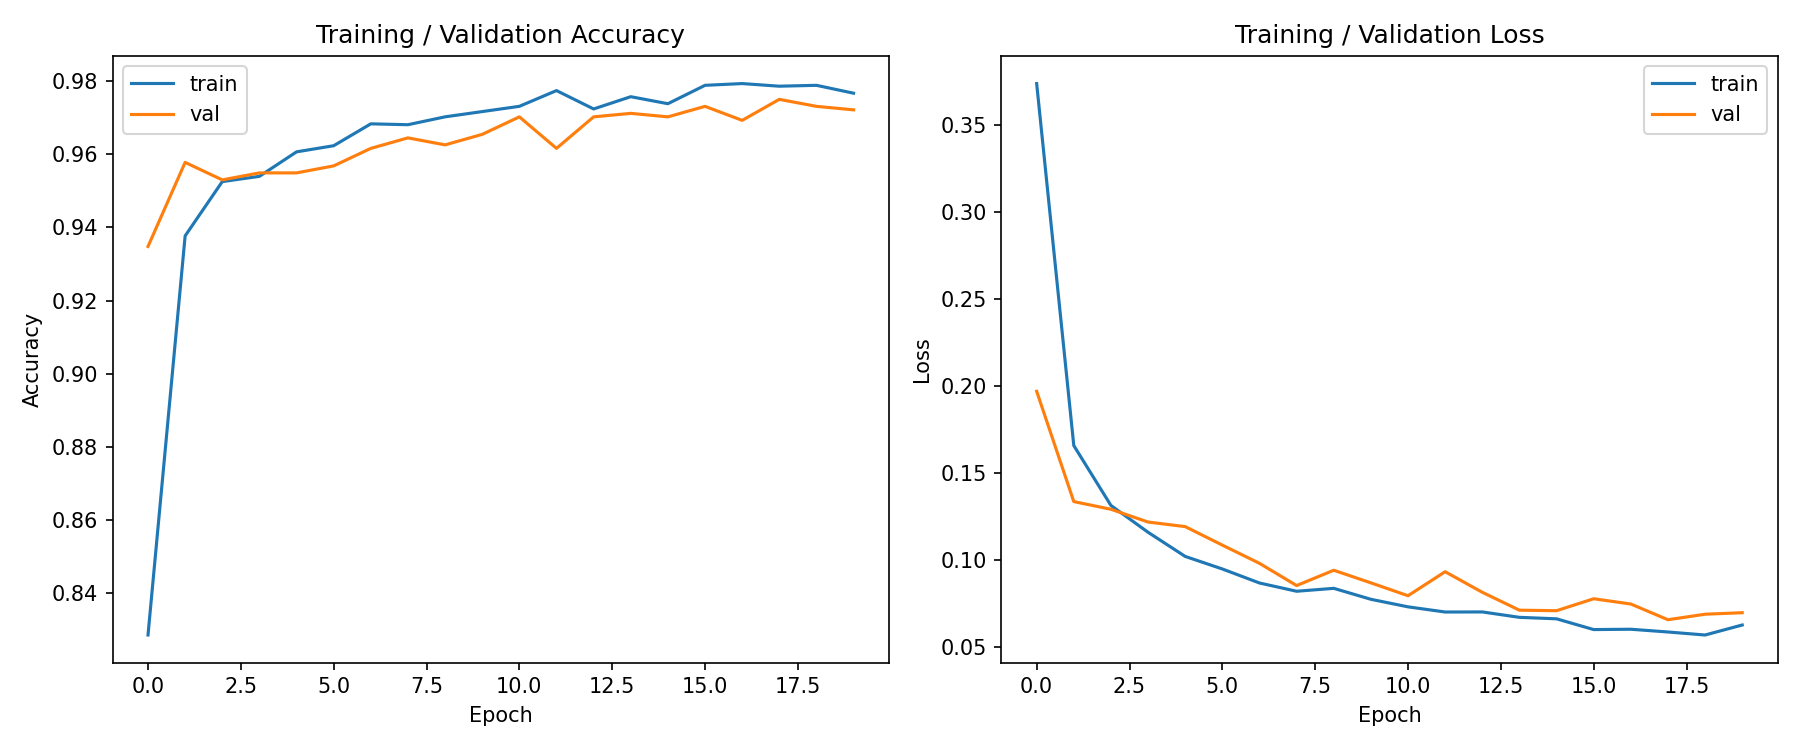
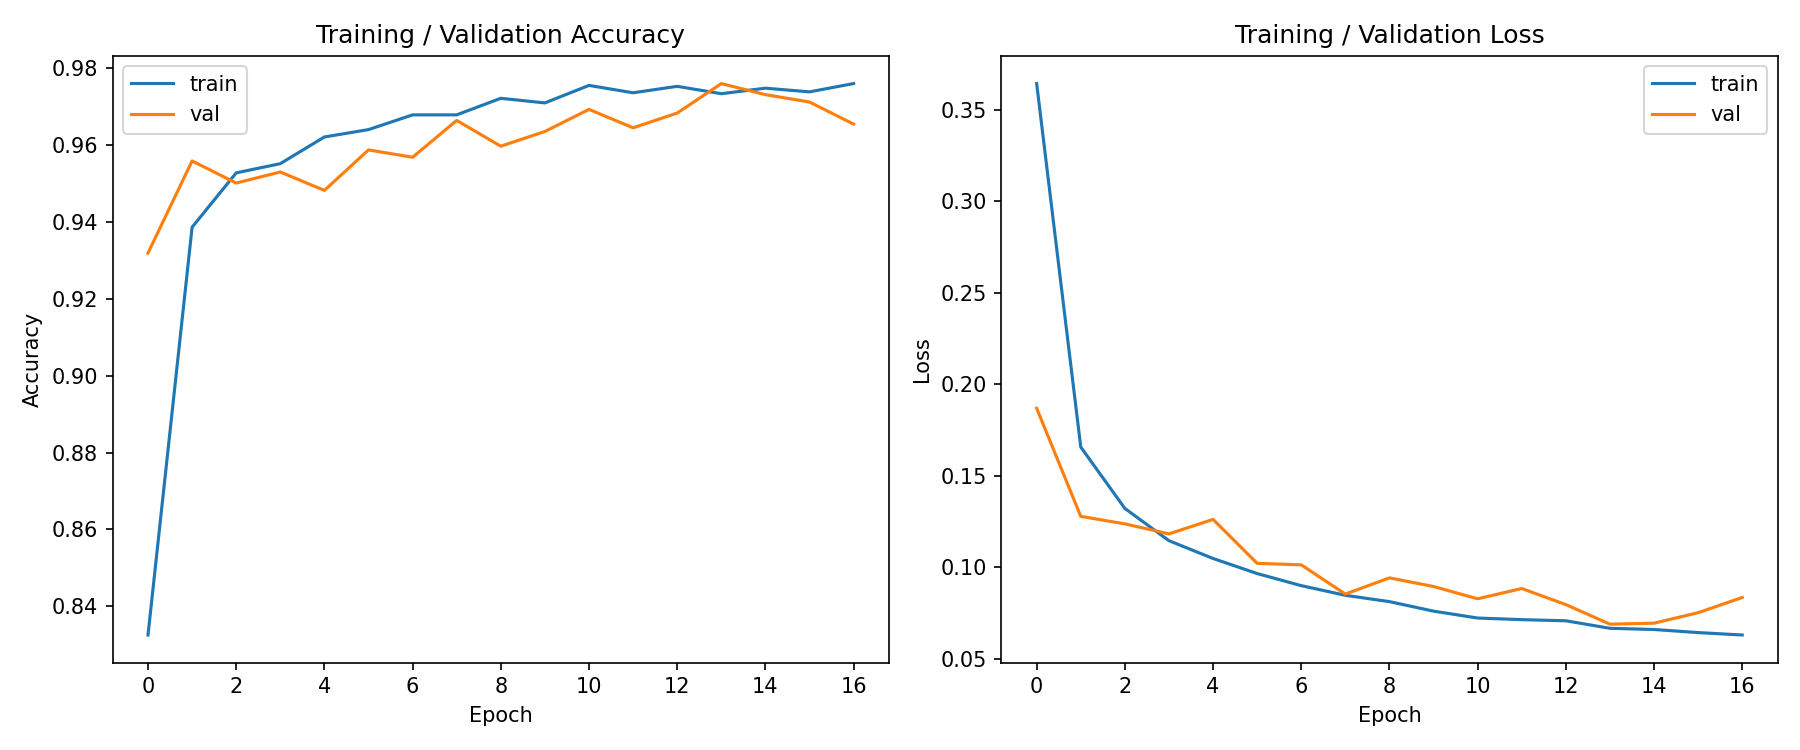
Retrain model and add prediction inference

diff --git a/src/predict.py b/src/predict.py
@@ -1,0 +1,96 @@
+import argparse
+from pathlib import Path
+
+import numpy as np
+import tensorflow as tf
+from tensorflow.keras.preprocessing import image
+from tensorflow.keras.applications.mobilenet_v2 import preprocess_input
+
+
+CLASS_NAMES = ["NORMAL", "PNEUMONIA"]
+
+
+def load_image(image_path, image_size):
+    img = image.load_img(
+        image_path,
+        target_size=(image_size, image_size)
+    )
+
+    img_array = image.img_to_array(img)
+
+    # same preprocessing as training
+    img_array = preprocess_input(img_array)
+
+    # add batch dimension
+    img_array = np.expand_dims(img_array, axis=0)
+
+    return img_array
+
+
+def predict_image(model_path, image_path, image_size=224, threshold=0.5):
+    model = tf.keras.models.load_model(model_path)
+
+    img_array = load_image(image_path, image_size)
+
+    score = model.predict(img_array, verbose=0)[0][0]
+
+    predicted_label = "PNEUMONIA" if score > threshold else "NORMAL"
+
+    confidence = score if predicted_label == "PNEUMONIA" else 1 - score
+
+    return predicted_label, confidence, score
+
+
+def main():
+    parser = argparse.ArgumentParser(
+        description="Predict pneumonia from a chest X-ray image."
+    )
+
+    parser.add_argument(
+        "image_path",
+        type=str,
+        help="Path to the chest X-ray image."
+    )
+
+    parser.add_argument(
+        "--model-path",
+        type=str,
+        default="saved_models/best_model.keras",
+        help="Path to the trained Keras model."
+    )
+
+    parser.add_argument(
+        "--image-size",
+        type=int,
+        default=224,
+        help="Input image size."
+    )
+
+    parser.add_argument(
+        "--threshold",
+        type=float,
+        default=0.5,
+        help="Decision threshold for pneumonia class."
+    )
+
+    args = parser.parse_args()
+
+    image_path = Path(args.image_path)
+
+    if not image_path.exists():
+        raise FileNotFoundError(f"Image not found: {image_path}")
+
+    label, confidence, raw_score = predict_image(
+        model_path=args.model_path,
+        image_path=image_path,
+        image_size=args.image_size,
+        threshold=args.threshold
+    )
+
+    print(f"Prediction: {label}")
+    print(f"Confidence: {confidence:.2%}")
+    print(f"Raw pneumonia score: {raw_score:.4f}")
+
+
+if __name__ == "__main__":
+    main()